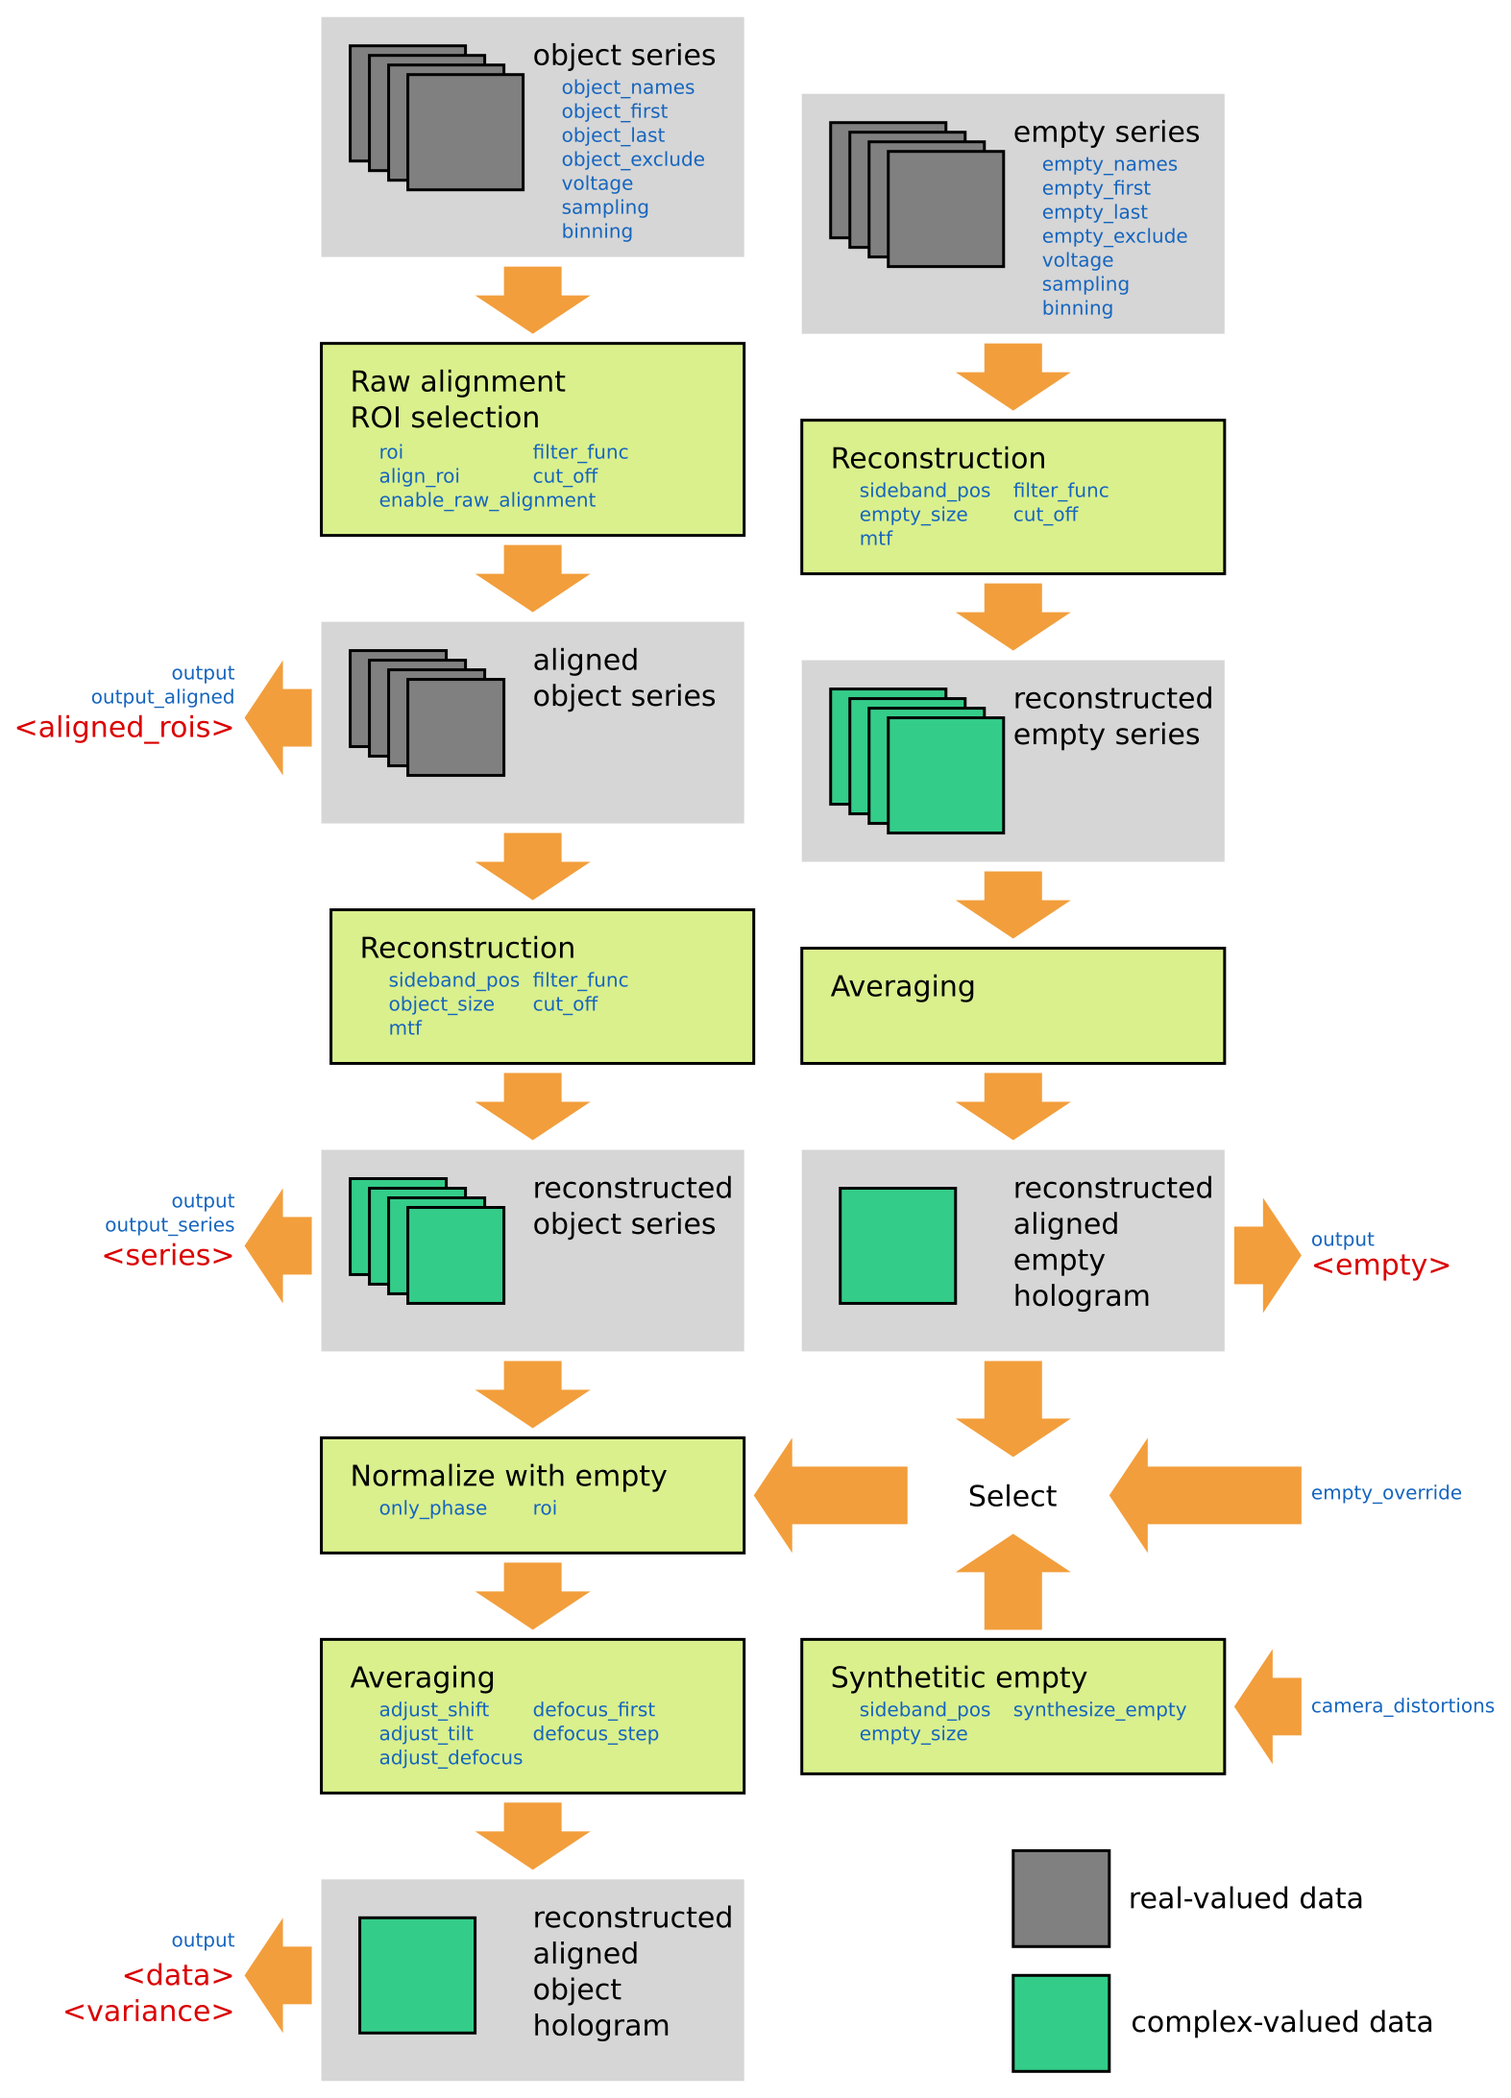
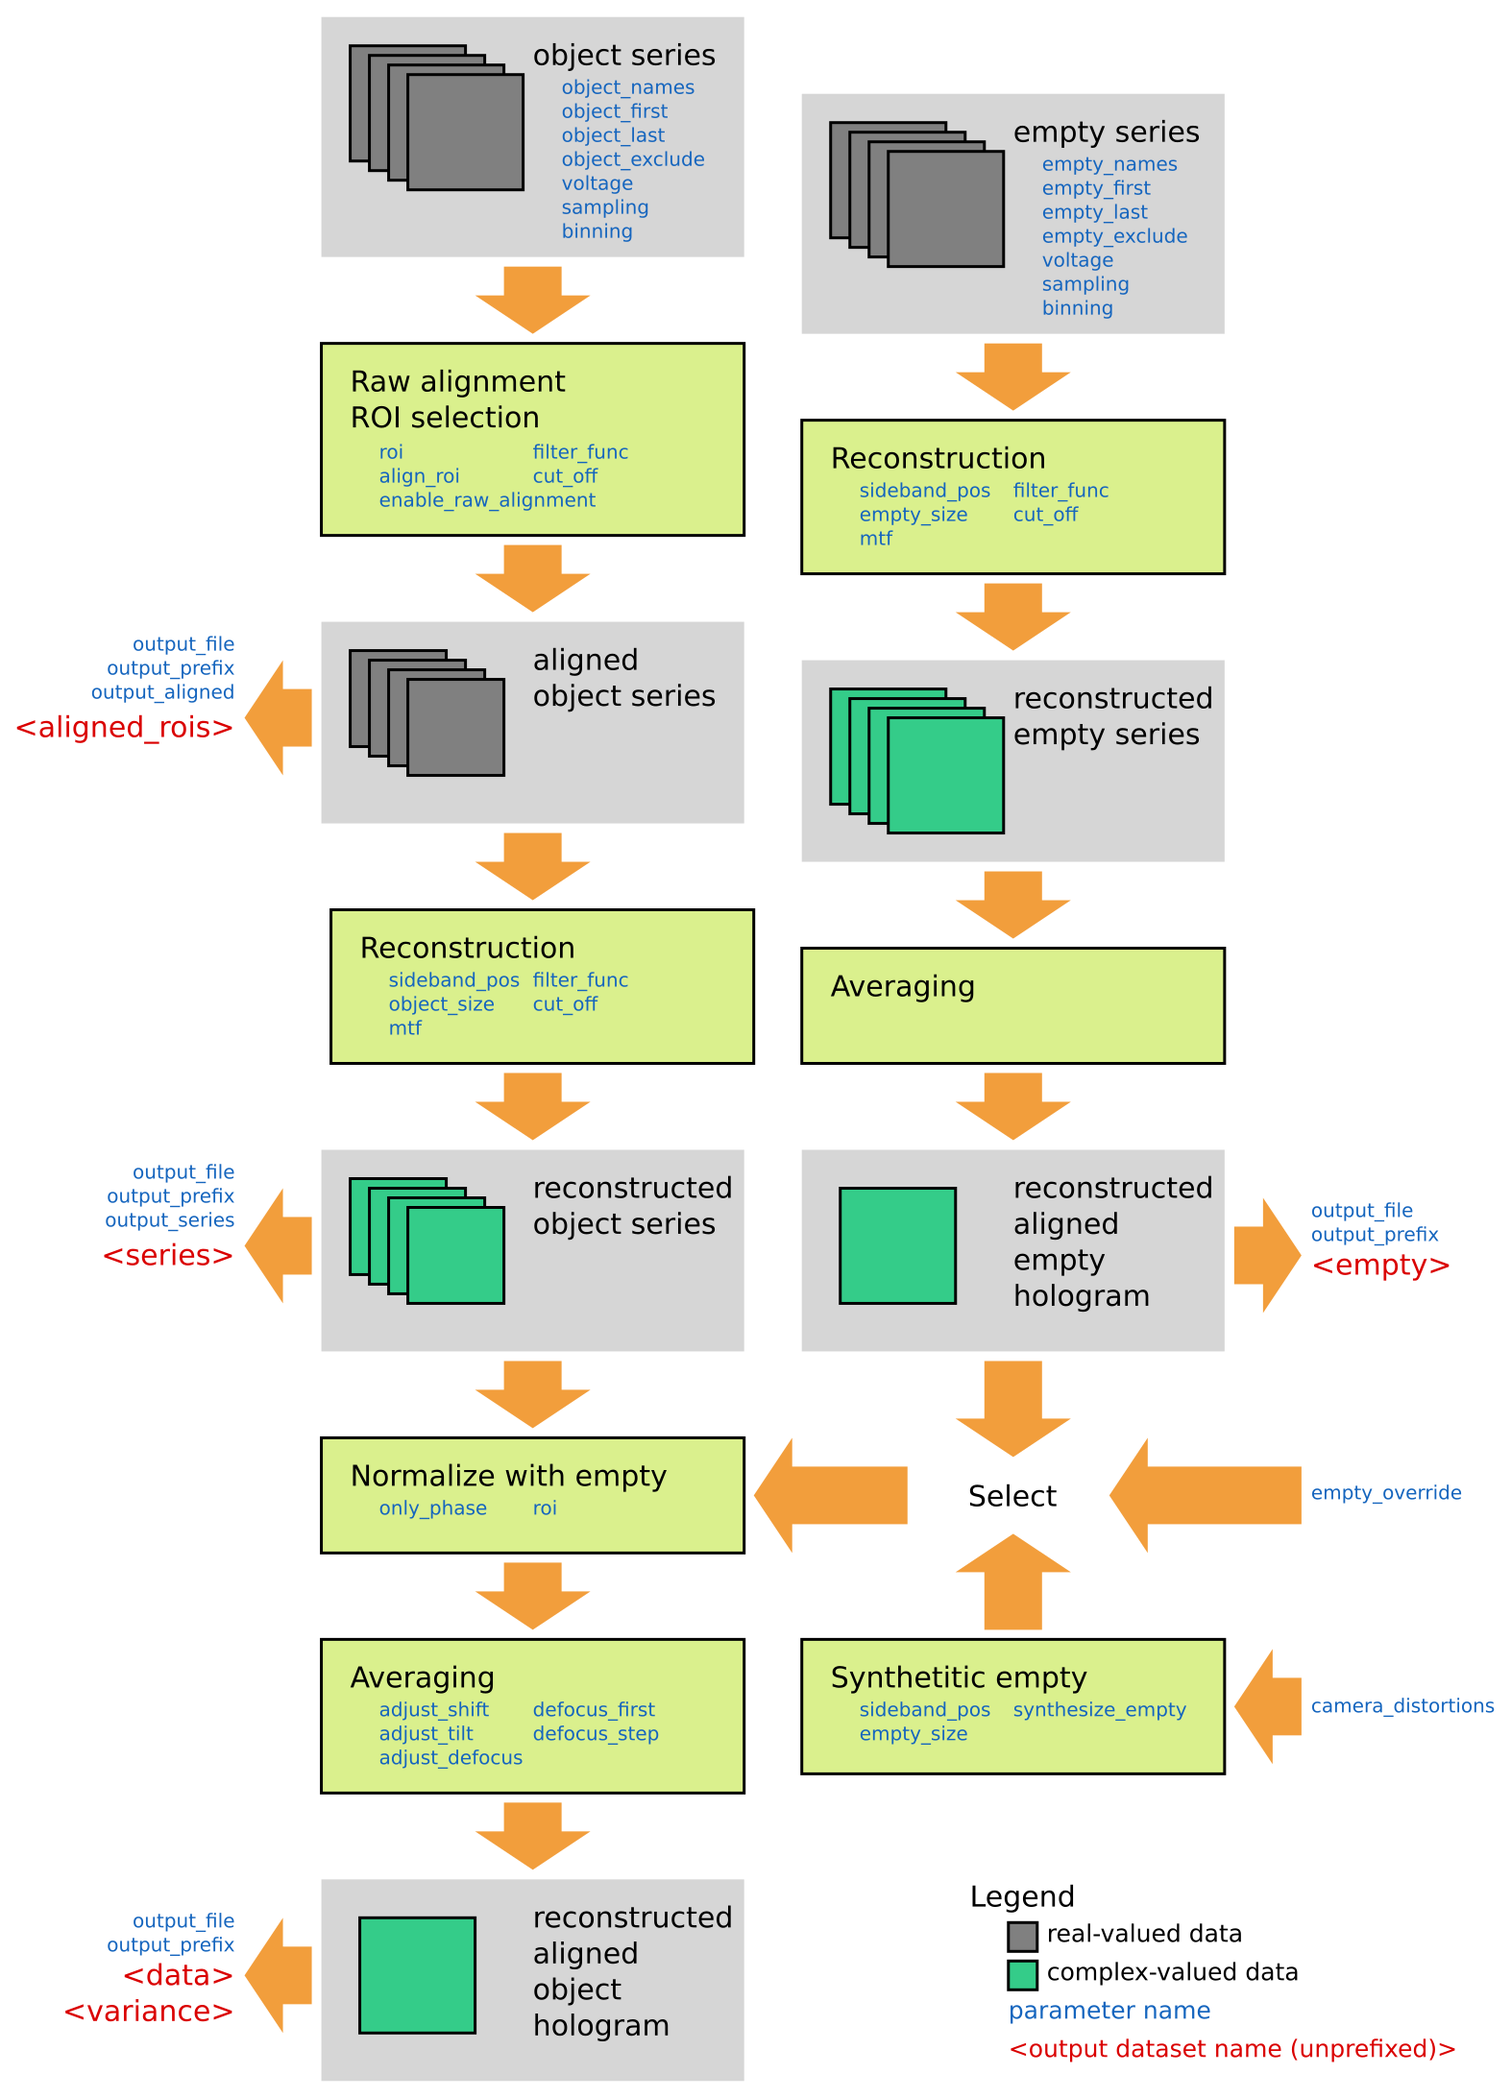
Renamed parameter 'output' to 'output_name'. Added parameter 'output_prefix'

diff --git a/tests/test_example.py b/tests/test_example.py
@@ -58,7 +58,7 @@ class TestExamples(unittest.TestCase):
             "defocus_step": -2.0,
             "sideband_pos" : [1136, 1304],
             "roi" : [128, 128, 1920, 1920],
-            "output" : self.touch_temp_output(),
+            "output_name" : self.touch_temp_output(),
             "filter_func" : ["BUTTERWORTH", 14],
             "cut_off" : 12.0,
             "mtf": EXAMPLE_MTF
@@ -68,7 +68,7 @@ class TestExamples(unittest.TestCase):
     def test_GaN_example(self):
         param = self.default_GaN_param()
         holoaverage(param, verbose=self.VERBOSE)
-        with h5py.File(param["output"], "r") as output:
+        with h5py.File(param["output_name"], "r") as output:
             data_convergence = output["data"].attrs["convergence"]
             empty_convergence = output["empty"].attrs["convergence"]
 
@@ -87,7 +87,7 @@ class TestExamples(unittest.TestCase):
         param["object_size"] = 384
         param["empty_size"] = 512
         holoaverage(param, verbose=self.VERBOSE)
-        with h5py.File(param["output"], "r") as output:
+        with h5py.File(param["output_name"], "r") as output:
             data_convergence = output["data"].attrs["convergence"]
             empty_convergence = output["empty"].attrs["convergence"]
 
@@ -109,7 +109,7 @@ class TestExamples(unittest.TestCase):
 
         param = self.default_GaN_param()
         holoaverage(param, verbose=self.VERBOSE)
-        with h5py.File(param["output"], "r") as output:
+        with h5py.File(param["output_name"], "r") as output:
             data_convergence = output["data"].attrs["convergence"]
             empty_convergence = output["empty"].attrs["convergence"]
 
@@ -128,7 +128,7 @@ class TestExamples(unittest.TestCase):
         param["adjust_defocus"] = True
         param["adjust_tilt"] = True
         holoaverage(param, verbose=self.VERBOSE)
-        with h5py.File(param["output"], "r") as output:
+        with h5py.File(param["output_name"], "r") as output:
             data_convergence = output["data"].attrs["convergence"]
             empty_convergence = output["empty"].attrs["convergence"]
 
@@ -148,7 +148,7 @@ class TestExamples(unittest.TestCase):
         param["empty_last"] = 5
         del param["mtf"]
         holoaverage(param, verbose=self.VERBOSE)
-        with h5py.File(param["output"], "r") as output:
+        with h5py.File(param["output_name"], "r") as output:
             data_convergence = output["data"].attrs["convergence"]
             empty_convergence = output["empty"].attrs["convergence"]
 
@@ -164,7 +164,7 @@ class TestExamples(unittest.TestCase):
         param = self.default_GaN_param()
         del param["object_names"]
         holoaverage(param, verbose=self.VERBOSE)
-        with h5py.File(param["output"], "r") as output:
+        with h5py.File(param["output_name"], "r") as output:
             self.assertFalse("data" in output)
             self.assertFalse("variance" in output)
             empty_convergence = output["empty"].attrs["convergence"]
@@ -179,7 +179,7 @@ class TestExamples(unittest.TestCase):
         del param["empty_names"]
         del param["empty_size"]
         holoaverage(param, verbose=self.VERBOSE)
-        with h5py.File(param["output"], "r") as output:
+        with h5py.File(param["output_name"], "r") as output:
             self.assertFalse("empty" in output)
             data_convergence = output["data"].attrs["convergence"]
 
@@ -198,7 +198,7 @@ class TestExamples(unittest.TestCase):
         del param["empty_size"]
         param["empty_override"] = "%s?type=raw?xsize=256?ysize=256?dtype=complex64?offset=100000" % empty_raw
         holoaverage(param, verbose=self.VERBOSE)
-        with h5py.File(param["output"], "r") as output:
+        with h5py.File(param["output_name"], "r") as output:
             self.assertFalse("empty" in output)
             data_convergence = output["data"].attrs["convergence"]
 
@@ -212,7 +212,7 @@ class TestExamples(unittest.TestCase):
         empty_param = self.default_GaN_param()
         del empty_param["object_names"]
         holoaverage(empty_param, verbose=self.VERBOSE)
-        with h5py.File(empty_param["output"], "r") as output:
+        with h5py.File(empty_param["output_name"], "r") as output:
             empty_convergence = output["empty"].attrs["convergence"]
 
         # Test for empty convergence
@@ -223,9 +223,9 @@ class TestExamples(unittest.TestCase):
         # Reconstruct data
         object_param = self.default_GaN_param()
         object_param["empty_names"] = "/dev/null/some_invalid_filename"
-        object_param["empty_override"] = empty_param["output"] + "?dataset=empty"
+        object_param["empty_override"] = empty_param["output_name"] + "?dataset=empty"
         holoaverage(object_param, verbose=self.VERBOSE)
-        with h5py.File(object_param["output"], "r") as output:
+        with h5py.File(object_param["output_name"], "r") as output:
             data_convergence = output["data"].attrs["convergence"]
 
         # Test for data convergence
@@ -239,7 +239,7 @@ class TestExamples(unittest.TestCase):
         param["object_last"] = 1
         param["empty_last"] = 1
         holoaverage(param, verbose=self.VERBOSE)
-        with h5py.File(param["output"], "r") as output:
+        with h5py.File(param["output_name"], "r") as output:
             data = output["data"][...]
             empty = output["empty"][...]
 
@@ -255,7 +255,7 @@ class TestExamples(unittest.TestCase):
         param["object_size"] = 2048
         param["empty_size"] = 2048
         holoaverage(param, verbose=self.VERBOSE)
-        with h5py.File(param["output"], "r") as output:
+        with h5py.File(param["output_name"], "r") as output:
             data = output["data"][...]
             empty = output["empty"][...]
 
@@ -270,7 +270,7 @@ class TestExamples(unittest.TestCase):
         carrier = (np.array(empty_param["sideband_pos"], dtype=float) - 1024) / 2048
         carrier /= np.dot(carrier, carrier)
         holoaverage(empty_param, verbose=self.VERBOSE)
-        with h5py.File(empty_param["output"], "r") as output:
+        with h5py.File(empty_param["output_name"], "r") as output:
             empty = output["empty"][...]
 
         # Create displacements from empty hologram
@@ -287,7 +287,7 @@ class TestExamples(unittest.TestCase):
         object_param["synthesize_empty"] = True
         object_param["camera_distortions"] = [displacement_file + "?dataset=dx", displacement_file + "?dataset=dy"]
         holoaverage(object_param, verbose=self.VERBOSE)
-        with h5py.File(object_param["output"], "r") as output:
+        with h5py.File(object_param["output_name"], "r") as output:
             new_empty = output["empty"][...]
             data_convergence = output["data"].attrs["convergence"]
 
@@ -305,7 +305,7 @@ class TestExamples(unittest.TestCase):
         param["empty_last"] = 5
         param["roi"] = [256, 640, 1792, 1408]
         holoaverage(param, verbose=self.VERBOSE)
-        with h5py.File(param["output"], "r") as output:
+        with h5py.File(param["output_name"], "r") as output:
             data_convergence = output["data"].attrs["convergence"]
             empty_convergence = output["empty"].attrs["convergence"]
 

diff --git a/holoaverage/main.py b/holoaverage/main.py
@@ -234,7 +234,7 @@ def holoaverage(param, basepath="", verbose=0):
         if align_roi is not None:
             align_roi = np.array(align_roi, dtype=int)
         else:
-            warnings.warn("Setting 'align_roi' to 'null' is deprecated. Set the parameter 'enable_raw_align' to false instead", DeprecationWarning)
+            warnings.warn("Setting 'align_roi' to 'null' is deprecated. Set the parameter 'enable_raw_align' to false instead.", DeprecationWarning)
             enable_raw_align = False
     else:
         align_roi = None
@@ -243,9 +243,14 @@ def holoaverage(param, basepath="", verbose=0):
     adjust_tilt = bool(param.get('adjust_tilt', False))
     output_series = bool(param.get('output_series', False))
     output_aligned = bool(param.get('output_aligned', False))
-    output_file = param.get('output')
-    if 'output' in param:
-        output_file = os.path.join(path, str(param['output']))
+    if ('output_name' not in param) and ('output' in param):
+        warnings.warn("The parameter 'output' is deprecated. Use 'output_name' instead.", DeprecationWarning)
+        output_name = os.path.join(path, str(param['output_name']))
+    elif 'output_name' in param:
+        output_name = os.path.join(path, str(param['output_name']))
+    else:
+        output_name = None
+    output_prefix = str(param.get('output_prefix', ''))
     defocus_first = float(param.get('defocus_first', 0.0))
     defocus_step = float(param.get('defocus_step', 0.0))
     empty_exclude = np.array(param.get('empty_exclude', []), dtype=int)
@@ -282,8 +287,8 @@ def holoaverage(param, basepath="", verbose=0):
             empty_sampling = np.ones(2, dtype=float) * sampling
 
         empty = create_synthetic_empty(camera_dev, sideband_pos, empty_size, empty_sampling, mask_type)
-        if output_file:
-            saveHDF5(output_file, empty, dataName="empty")
+        if output_name:
+            saveHDF5(output_name, empty, dataName=output_prefix + "empty")
     elif empty_override is not None:
         empty_override = os.path.join(path, empty_override)
         empty = load_file(empty_override)
@@ -311,8 +316,8 @@ def holoaverage(param, basepath="", verbose=0):
         else:
             empty = empty_holo[0]
 
-        if output_file:
-            saveHDF5(output_file, empty, dataName="empty")
+        if output_name:
+            saveHDF5(output_name, empty, dataName=output_prefix + "empty")
     else:
         if empty_size is None:
             if object_size is None:
@@ -352,8 +357,8 @@ def holoaverage(param, basepath="", verbose=0):
     del data_series
 
     # Save series
-    if output_aligned and output_file:
-        data_rois.saveHDF5(output_file, 'aligned_rois')
+    if output_aligned and output_name:
+        data_rois.saveHDF5(output_name, output_prefix + 'aligned_rois')
 
     # Reconstruct object series
     if object_size is None:
@@ -396,8 +401,8 @@ def holoaverage(param, basepath="", verbose=0):
         rescale_fourier(big_data, out=holo_series[index].array)
 
     # Save series
-    if output_series and output_file:
-        holo_series.saveHDF5(output_file, 'series')
+    if output_series and output_name:
+        holo_series.saveHDF5(output_name, output_prefix + 'series')
 
     # Average series
     defocus = np.array([(index - object_first) * defocus_step + defocus_first for index in object_index])
@@ -406,10 +411,10 @@ def holoaverage(param, basepath="", verbose=0):
     else:
         out = propagate(holo_series[0], defocus[0])
         var = None
-    if output_file:
-        saveHDF5(output_file, out)
-    if output_file and (var is not None):
-        saveHDF5(output_file, var, dataName="variance")
+    if output_name:
+        saveHDF5(output_name, out, dataName=output_prefix + "data")
+    if output_name and (var is not None):
+        saveHDF5(output_name, var, dataName=output_prefix + "variance")
 
 
 def main(argv=None):

diff --git a/holoaverage/version.py b/holoaverage/version.py
@@ -1,1 +1,1 @@
-__version__ = '1.1.0'
+__version__ = '1.1.1'

diff --git a/docs/parameters.rst b/docs/parameters.rst
@@ -431,16 +431,6 @@ only_phase
     artifacts. Such cases typically occur when the interference region, does not cover the whole image.
     When this parameter is ``true``, only the phases of the reconstructed holograms are normalized.
 
-.. _param-output:
-
-output
-^^^^^^^^^
-
-:Parameter: ``output``
-:Type: Mandatory
-:Format: String
-:Description: Name of the output file. The output(s) will be always stored in HDF5 format.
-
 .. _param-output_aligned:
 
 output_aligned
@@ -451,6 +441,34 @@ output_aligned
 :Format: Boolean
 :Description: When set to ``true``, the region of interest of the individual object holograms (before
     reconstruction) are also stored in the output file.
+
+.. _param-output_name:
+
+output_name
+^^^^^^^^^^^
+
+:Parameter: ``output_name``
+:Type: Mandatory
+:Format: String
+:Description: Name of the output file. The output(s) will be always stored in HDF5 format.
+
+    .. versionchanged:: 1.1
+        The parameter was renamed from ``output`` to ``output_name``.
+
+.. _param-output_prefix:
+
+output_prefix
+^^^^^^^^^^^^^
+
+:Parameter: ``output_prefix``
+:Type: Optional (Defaults to empty string)
+:Format: String
+:Description: Prefix to dataset names in output file. By using the prefix multiple outputs can be written to the same
+    HDF5 file. Especially forward slashes can be used in :ref:`param-output_prefix` to create the outputs in sub-groups.
+    As example, if the value of ``output_prefix`` would be ``alpha_``, the dataset ``data`` is saved as ``alpha_data``
+    in the output file.
+
+    .. versionadded:: 1.1
 
 .. _param-output_series:
 

diff --git a/docs/tutorial.rst b/docs/tutorial.rst
@@ -144,8 +144,8 @@ documentation. Lines beginning with double slashes (i.e. ``//``) are comments an
         // Disable raw alignment. Raw alignment is enabled by default.
         //"enable_raw_alignment" : false,
 
-        // Output file (will be HDF5 file). Required.
-        "output" : "a1.hdf5",
+        // Output file name (will be HDF5 file). Required.
+        "output_name" : "a1.hdf5",
 
         // Mask type (see FilterFunction for details). Defaults to "EDGE"
         // "filter_func" : "EDGE",
@@ -392,7 +392,7 @@ reconstructions. This can be adjusted by the :ref:`param-only_phase` parameter. 
 
         "only_phase": false,
 
-Eventually, the filename of the output file must be provided by the :ref:`param-output` parameter. The output will
+Eventually, the filename of the output file must be provided by the :ref:`param-output_name` parameter. The output will
 be always HDF5 files, the contents of these files is described in Section :ref:`sec-outputs`.
 
 ::
@@ -446,7 +446,7 @@ This error number should go down and converge to a stable value within the last 
 Results
 -------
 
-After the program succeeded the outputs can be found in the output file as specified by the :ref:`param-output`
+After the program succeeded the outputs can be found in the output file as specified by the :ref:`param-output_name`
 parameter. In the present example the outputs are in the file ``a1.hdf5`` in the same directory as the parameter file.
 
 If you are using Digital Micrograph, there is also a plugin to read HDF5 files, which can be found at

diff --git a/docs/outputs.rst b/docs/outputs.rst
@@ -3,10 +3,13 @@
 Outputs
 =======
 
-Within the parameter file the output filename is specified by the :ref:`param-output` parameter. This output file
-will always be a HDF5 file.
+Within the parameter file the output filename is specified by the :ref:`param-output_name` parameter. This output file
+will always be a HDF5 file. The dataset names described below are prefixed by the value of the :ref:`param-output_prefix`
+parameter (which is empty by default). As example, if the value of ``output_prefix`` would be ``alpha_``, the dataset
+``data`` is saved as ``alpha_data`` in the output file. By using the prefix multiple outputs can be written to the same
+HDF5 file.
 
-This file typically holds three datasets:
+The output file typically holds three datasets:
 
 The dataset ``data`` contains the averaged reconstruction of the normalized and drift aligned object holograms. If the defocus value
 for the individual holograms (as specified by the parameters :ref:`param-defocus_first` and :ref:`param-defocus_step`) is
